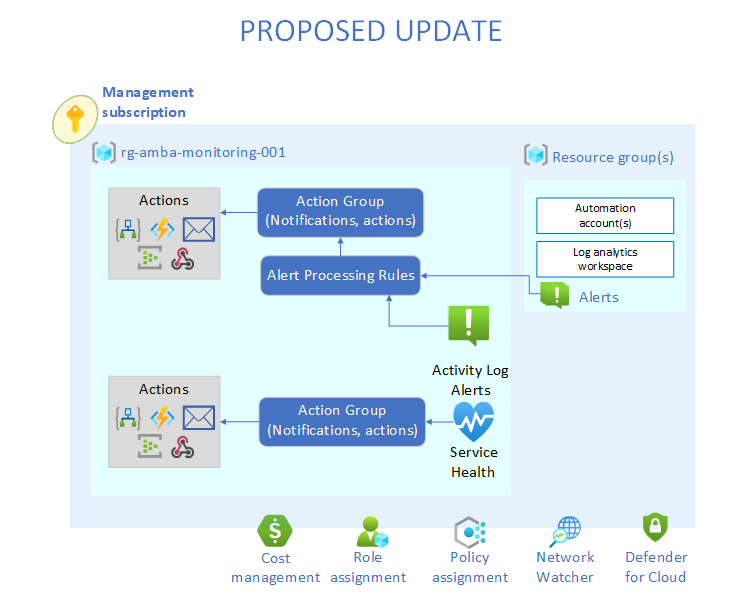
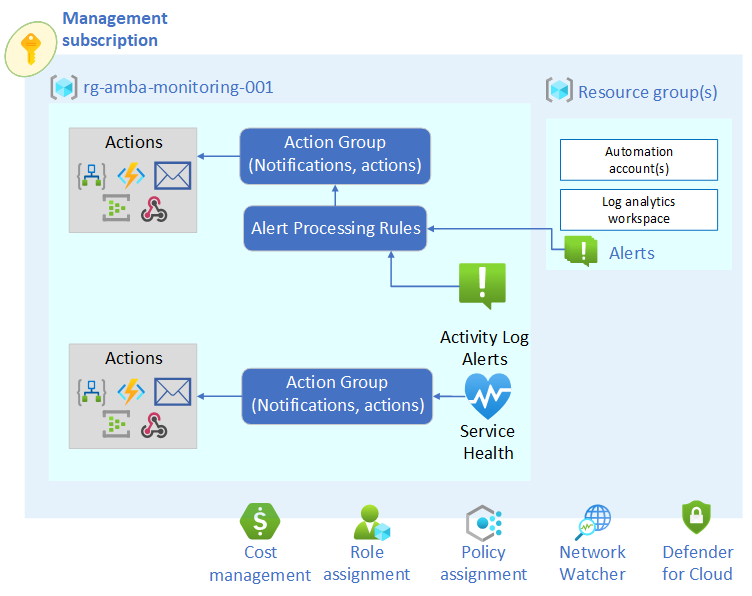
Updates to Montoring-and-Alerting.md and Updated newer version of alert flow png to remove Proposed from the image.

diff --git a/docs/content/patterns/alz/Monitoring-and-Alerting.md b/docs/content/patterns/alz/Monitoring-and-Alerting.md
@@ -43,17 +43,17 @@ ALZ Alerts, Action Groups and Alert Processing Rules are deployed using Azure Po
 
 The following policy definition categories will be enabled as part of ALZ deployments for the hubs and landing zones defined by Azure landing zone:
 
-- Resource Metrics; See [here](../Alerts-Details#metric-alerts-settings) for details on which resource metrics are included.
-- Service and Resource Health; See [here](../Alerts-Details#activity-log-alerts) for details on which alerts are included.
-- Activity Logs; See [here](../Alerts-Details#activity-log-administrative) for details on which alerts are included.
+- Resource Metrics; See [here](../Alerts-Details#azure-landing-zone-metric-alerts-settings) for details on which resource metrics are included.
+- Service and Resource Health; See [here](../Alerts-Details#azure-landing-zone-activity-log-resource-health) for details on which alerts are included.
+- Activity Logs; See [here](../Alerts-Details#azure-landing-zone-activity-log-administrative) for details on which alerts are included.
 - VM Insights Log Alerts; See [here](../Alerts-Details#vm-insights-log-alerts) for details on which alerts are included.
 - Recovery Vault Alerts; See [here](../Alerts-Details#recovery-vault-alerts) for details on which alerts are included.
 
-#### Resource Metrics
+### Resource Metrics
 
 Resource Metric alerts are deployed in the same resource group as the created Azure resource. For example, a resource metric alert for Express Route will be created in the same resource group containing the Express Route Gateway. This is done because these alert types are related to the specific resource id, therefore it makes sense to link the alert to the resource in the same resource group.
 
-#### Log Alerts
+### Log Alerts
 
 Log alerts are scoped at the subscription level. For the policies to remediate and deploy, the data which the alert queries for needs to exist in the Log Analytics table. For the virtual machine log alerts the VM insights solution needs to be enabled on the VMs that are targeted. Only the performance collection of the VM insights solution is required for the current alerts to deploy. To enable VM Insights, you need to install the Azure Monitor Agent and optionally the Dependency agent on your supported machines. You can use different methods to install the agents, such as the Azure portal, Azure Policy, Azure Resource Manager templates, PowerShell, or manual install. For more details, please refer to the links below:
 
@@ -61,7 +61,7 @@ Log alerts are scoped at the subscription level. For the policies to remediate a
 - [Enable VM insights by using Azure Policy](https://learn.microsoft.com/en-us/azure/azure-monitor/vm/vminsights-enable-policy)
 - [Enable VM insights using Resource Manager templates](https://learn.microsoft.com/en-us/azure/azure-monitor/vm/vminsights-enable-resource-manager)
 
-#### Service and Resource Health
+### Service and Resource Health
 
 [Service health](https://learn.microsoft.com/en-us/azure/service-health/overview) provides a personalized view of the health of the Azure services and regions you're using. Resource health provides information about the health of your individual cloud resources such as a specific virtual machine instance.
 
